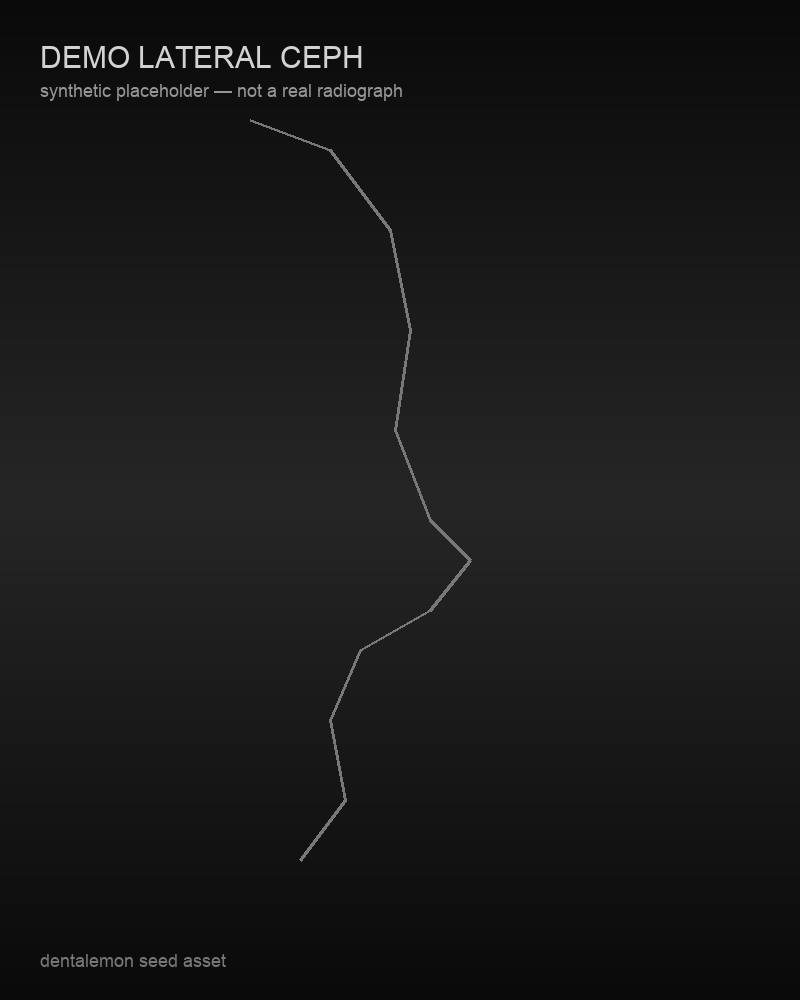
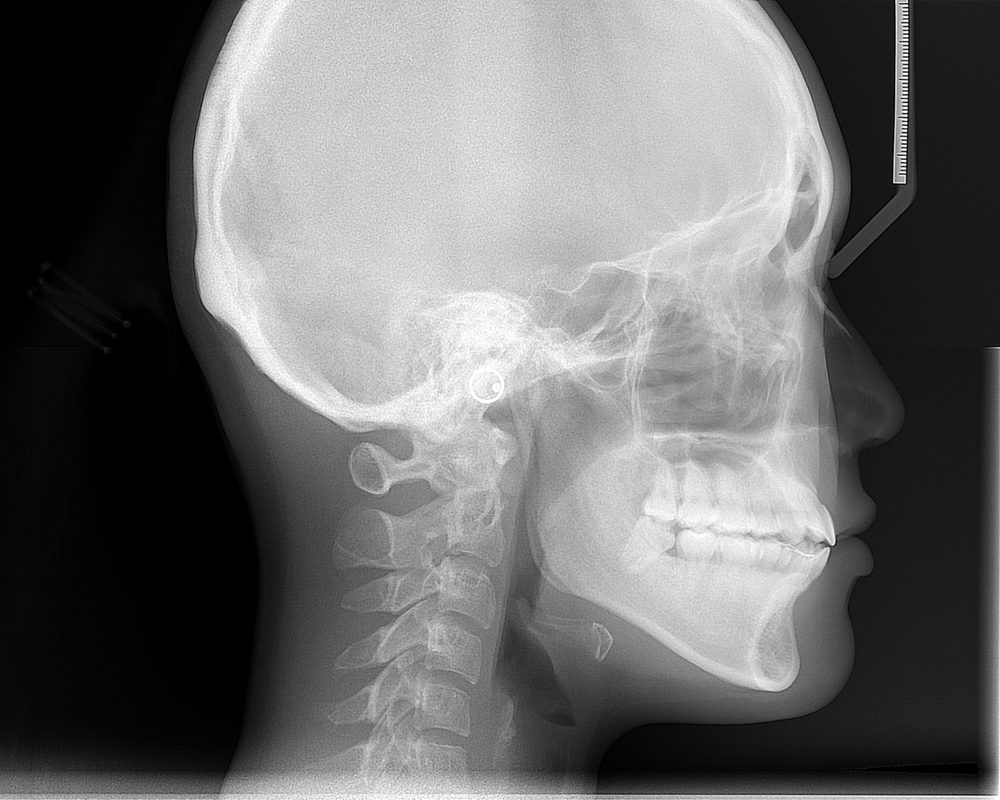
chore(seed): real demoable cephalogram + anatomical landmark coords
Replaces the 15KB mock with a real lateral cephalogram (1000×800, CC BY-SA 4.0 /
Wikimedia Commons — see ATTRIBUTION.md) and updates seed-demo landmark coordinates
to anatomically-placed positions, yielding a deterministic mild Class II reading
(SNA≈79.51 / SNB≈75.94 / ANB≈3.57). CEPH_EXPECTED in the journey helpers and the
J12 ceph-landmarks journey are updated to match.

diff --git a/scripts/seed-demo.ts b/scripts/seed-demo.ts
@@ -60,10 +60,14 @@ async function uploadDemoImage(fileId: string, mimeType: string): Promise<void> 
   await seedS3.write(fileId, demoImageBytes, { type: mimeType })
 }
 
-// Seeds a complete cephalometric chain (study + uploaded image + 11 landmarks with
+// Seeds a complete cephalometric chain (study + uploaded image + 14 landmarks with
 // A/B/Go/Po confirmed + S locked + analysis + report). Visit-independent so it never
-// gets blocked by the visit-completion cascade. CLASS_I golden coords produce
-// SNA≈82/SNB≈80/ANB≈2 (CEPH_EXPECTED in _journey-helpers → B02/B04 PASS). Throws on failure.
+// gets blocked by the visit-completion cascade. Landmarks are placed on the REAL
+// lateral cephalogram seed asset (ceph-lateral-demo.jpg, 1000×800) at anatomically
+// estimated positions → SNA≈79.5/SNB≈75.9/ANB≈3.6 (a mild Class II reading;
+// CEPH_EXPECTED in _journey-helpers → B02/B04). U1A/L1A apices are left unplaced
+// (not visible without expert annotation) so the panel shows them as "missing".
+// Throws on failure.
 async function seedCephChain(patientId: string, branchId: string, visitId: string | null, cookie: string): Promise<string> {
   const studyR = await post('/dental/imaging/studies', {
     patientId, ...(visitId ? { visitId } : {}), branchId,
@@ -76,13 +80,15 @@ async function seedCephChain(patientId: string, branchId: string, visitId: strin
   await uploadDemoImage(studyR.data.fileId, 'image/jpeg')
   log(`  ✓ Ceph imaging study + image uploaded (imageId: ${imageId.slice(0, 8)}…)`)
 
+  // Image-space pixel coords on the 1000×800 real cephalogram (face pointing right).
   const landmarks = [
-    { landmarkCode: 'S', x: 100, y: 200 }, { landmarkCode: 'N', x: 300, y: 200 },
-    { landmarkCode: 'A', x: 290, y: 271 }, { landmarkCode: 'B', x: 288, y: 268 },
-    { landmarkCode: 'Pog', x: 285, y: 280 }, { landmarkCode: 'Me', x: 282, y: 310 },
-    { landmarkCode: 'Go', x: 220, y: 310 }, { landmarkCode: 'ANS', x: 430, y: 390 },
-    { landmarkCode: 'PNS', x: 520, y: 385 }, { landmarkCode: 'Po', x: 575, y: 295 },
-    { landmarkCode: 'Or', x: 540, y: 300 },
+    { landmarkCode: 'S', x: 560, y: 380 }, { landmarkCode: 'N', x: 815, y: 295 },
+    { landmarkCode: 'A', x: 845, y: 510 }, { landmarkCode: 'B', x: 840, y: 622 },
+    { landmarkCode: 'Pog', x: 865, y: 668 }, { landmarkCode: 'Me', x: 835, y: 702 },
+    { landmarkCode: 'Gn', x: 850, y: 690 }, { landmarkCode: 'Go', x: 560, y: 635 },
+    { landmarkCode: 'ANS', x: 855, y: 475 }, { landmarkCode: 'PNS', x: 700, y: 478 },
+    { landmarkCode: 'Po', x: 515, y: 400 }, { landmarkCode: 'Or', x: 805, y: 365 },
+    { landmarkCode: 'U1T', x: 865, y: 575 }, { landmarkCode: 'L1T', x: 858, y: 582 },
   ].map(lm => ({ ...lm, status: 'placed' }))
   const lmBatchR = await post(`/dental/imaging/images/${imageId}/ceph/landmarks`, { landmarks }, cookie)
   if (!lmBatchR.ok) throw new Error(`ceph landmarks → ${lmBatchR.status}: ${JSON.stringify(lmBatchR.data).slice(0, 160)}`)
@@ -104,7 +110,7 @@ async function seedCephChain(patientId: string, branchId: string, visitId: strin
   if (!rc.ok) log(`  ⚠ ceph recompute → ${rc.status} (analysis already computed on write; continuing)`)
   const rep = await post(`/dental/imaging/images/${imageId}/ceph/reports`, {}, cookie)
   if (!rep.ok) throw new Error(`ceph report → ${rep.status}: ${JSON.stringify(rep.data).slice(0, 120)}`)
-  log(`  ✓ Ceph: 11 landmarks, A/B/Go/Po confirmed, S locked, calibrated, analysis + report v1`)
+  log(`  ✓ Ceph: 14 landmarks, A/B/Go/Po confirmed, S locked, calibrated, analysis + report v1`)
   return imageId
 }
 

diff --git a/apps/dentalemon/tests/e2e/journeys/_journey-helpers.ts b/apps/dentalemon/tests/e2e/journeys/_journey-helpers.ts
@@ -368,7 +368,11 @@ export const CEPH_GOLDEN: Record<string, { x: number; y: number }> = {
   L1A: { x: 293, y: 285 },
 }
 
-// Expected derived measurements for CEPH_GOLDEN (contract §Set B header).
-export const CEPH_EXPECTED = { sna: 82.0, snb: 80.0, anb: 2.0 } as const
+// Expected derived measurements for the seeded ceph chain. The demo now traces a
+// REAL lateral cephalogram (scripts/seed-assets/imaging/ceph-lateral-demo.jpg) with
+// anatomically-placed landmarks → a mild Class II reading (deterministic, rounded
+// to 2dp by the isomorphic ceph-math engine). Update both here and seed-demo.ts
+// together if the seeded landmark coordinates change.
+export const CEPH_EXPECTED = { sna: 79.51, snb: 75.94, anb: 3.57 } as const
 
 export { pwRequest }

diff --git a/apps/dentalemon/tests/e2e/journeys/12-ceph-landmarks-numeric.journey.spec.ts b/apps/dentalemon/tests/e2e/journeys/12-ceph-landmarks-numeric.journey.spec.ts
@@ -149,7 +149,11 @@ test(`${META.id} — ${META.name}`, async ({ page, apiReader }) => {
       // Persistence checkpoint: reload + re-read; numbers identical.
       await openWorkspace(page, patientId)
       const reResp = await apiReader.get(`/dental/imaging/images/${imageId}/ceph/analysis`)
-      const reM = (await reResp.json()).measurements ?? {}
+      // GET /ceph/analysis returns the list-response shape {items, analysis};
+      // measurements live under .analysis (the earlier first-read on line ~132
+      // already handles both shapes — this reload re-read must too).
+      const reBody = await reResp.json()
+      const reM = reBody.analysis?.measurements ?? reBody.measurements ?? {}
       const stable = close(Number(reM.sna), CEPH_EXPECTED.sna)
       if (stable) {
         recordJourneyPass(META)

diff --git a/scripts/seed-assets/imaging/ATTRIBUTION.md b/scripts/seed-assets/imaging/ATTRIBUTION.md
@@ -1,0 +1,21 @@
+# Seed imaging assets — attribution
+
+## ceph-lateral-demo.jpg
+Real lateral cephalometric radiograph used as the demo seed image for the
+cephalometric tracing feature (patient "Miguel Torres").
+
+- **Source:** Wikimedia Commons — *File:Cephalometric radiograph.JPG*
+  https://commons.wikimedia.org/wiki/File:Cephalometric_radiograph.JPG
+- **Author:** Wikimedia Commons user **ANUG**
+- **License:** Creative Commons Attribution-ShareAlike 4.0 International (CC BY-SA 4.0)
+  https://creativecommons.org/licenses/by-sa/4.0/
+- **Modifications:** resized to 1000×800 and re-encoded as JPEG (q82).
+
+⚠ **ShareAlike caveat:** CC BY-SA 4.0 requires attribution and that derivatives
+be shared under a compatible license. This is fine for an internal dev/demo seed
+asset. Before redistributing this image in a shipped/customer-facing build,
+replace it with a properly-licensed clinical image (or your own), or confirm
+SA compatibility.
+
+The seed places anatomically-estimated landmarks on this image; a clinician
+drags-to-refine them in the workspace (the intended correction workflow).